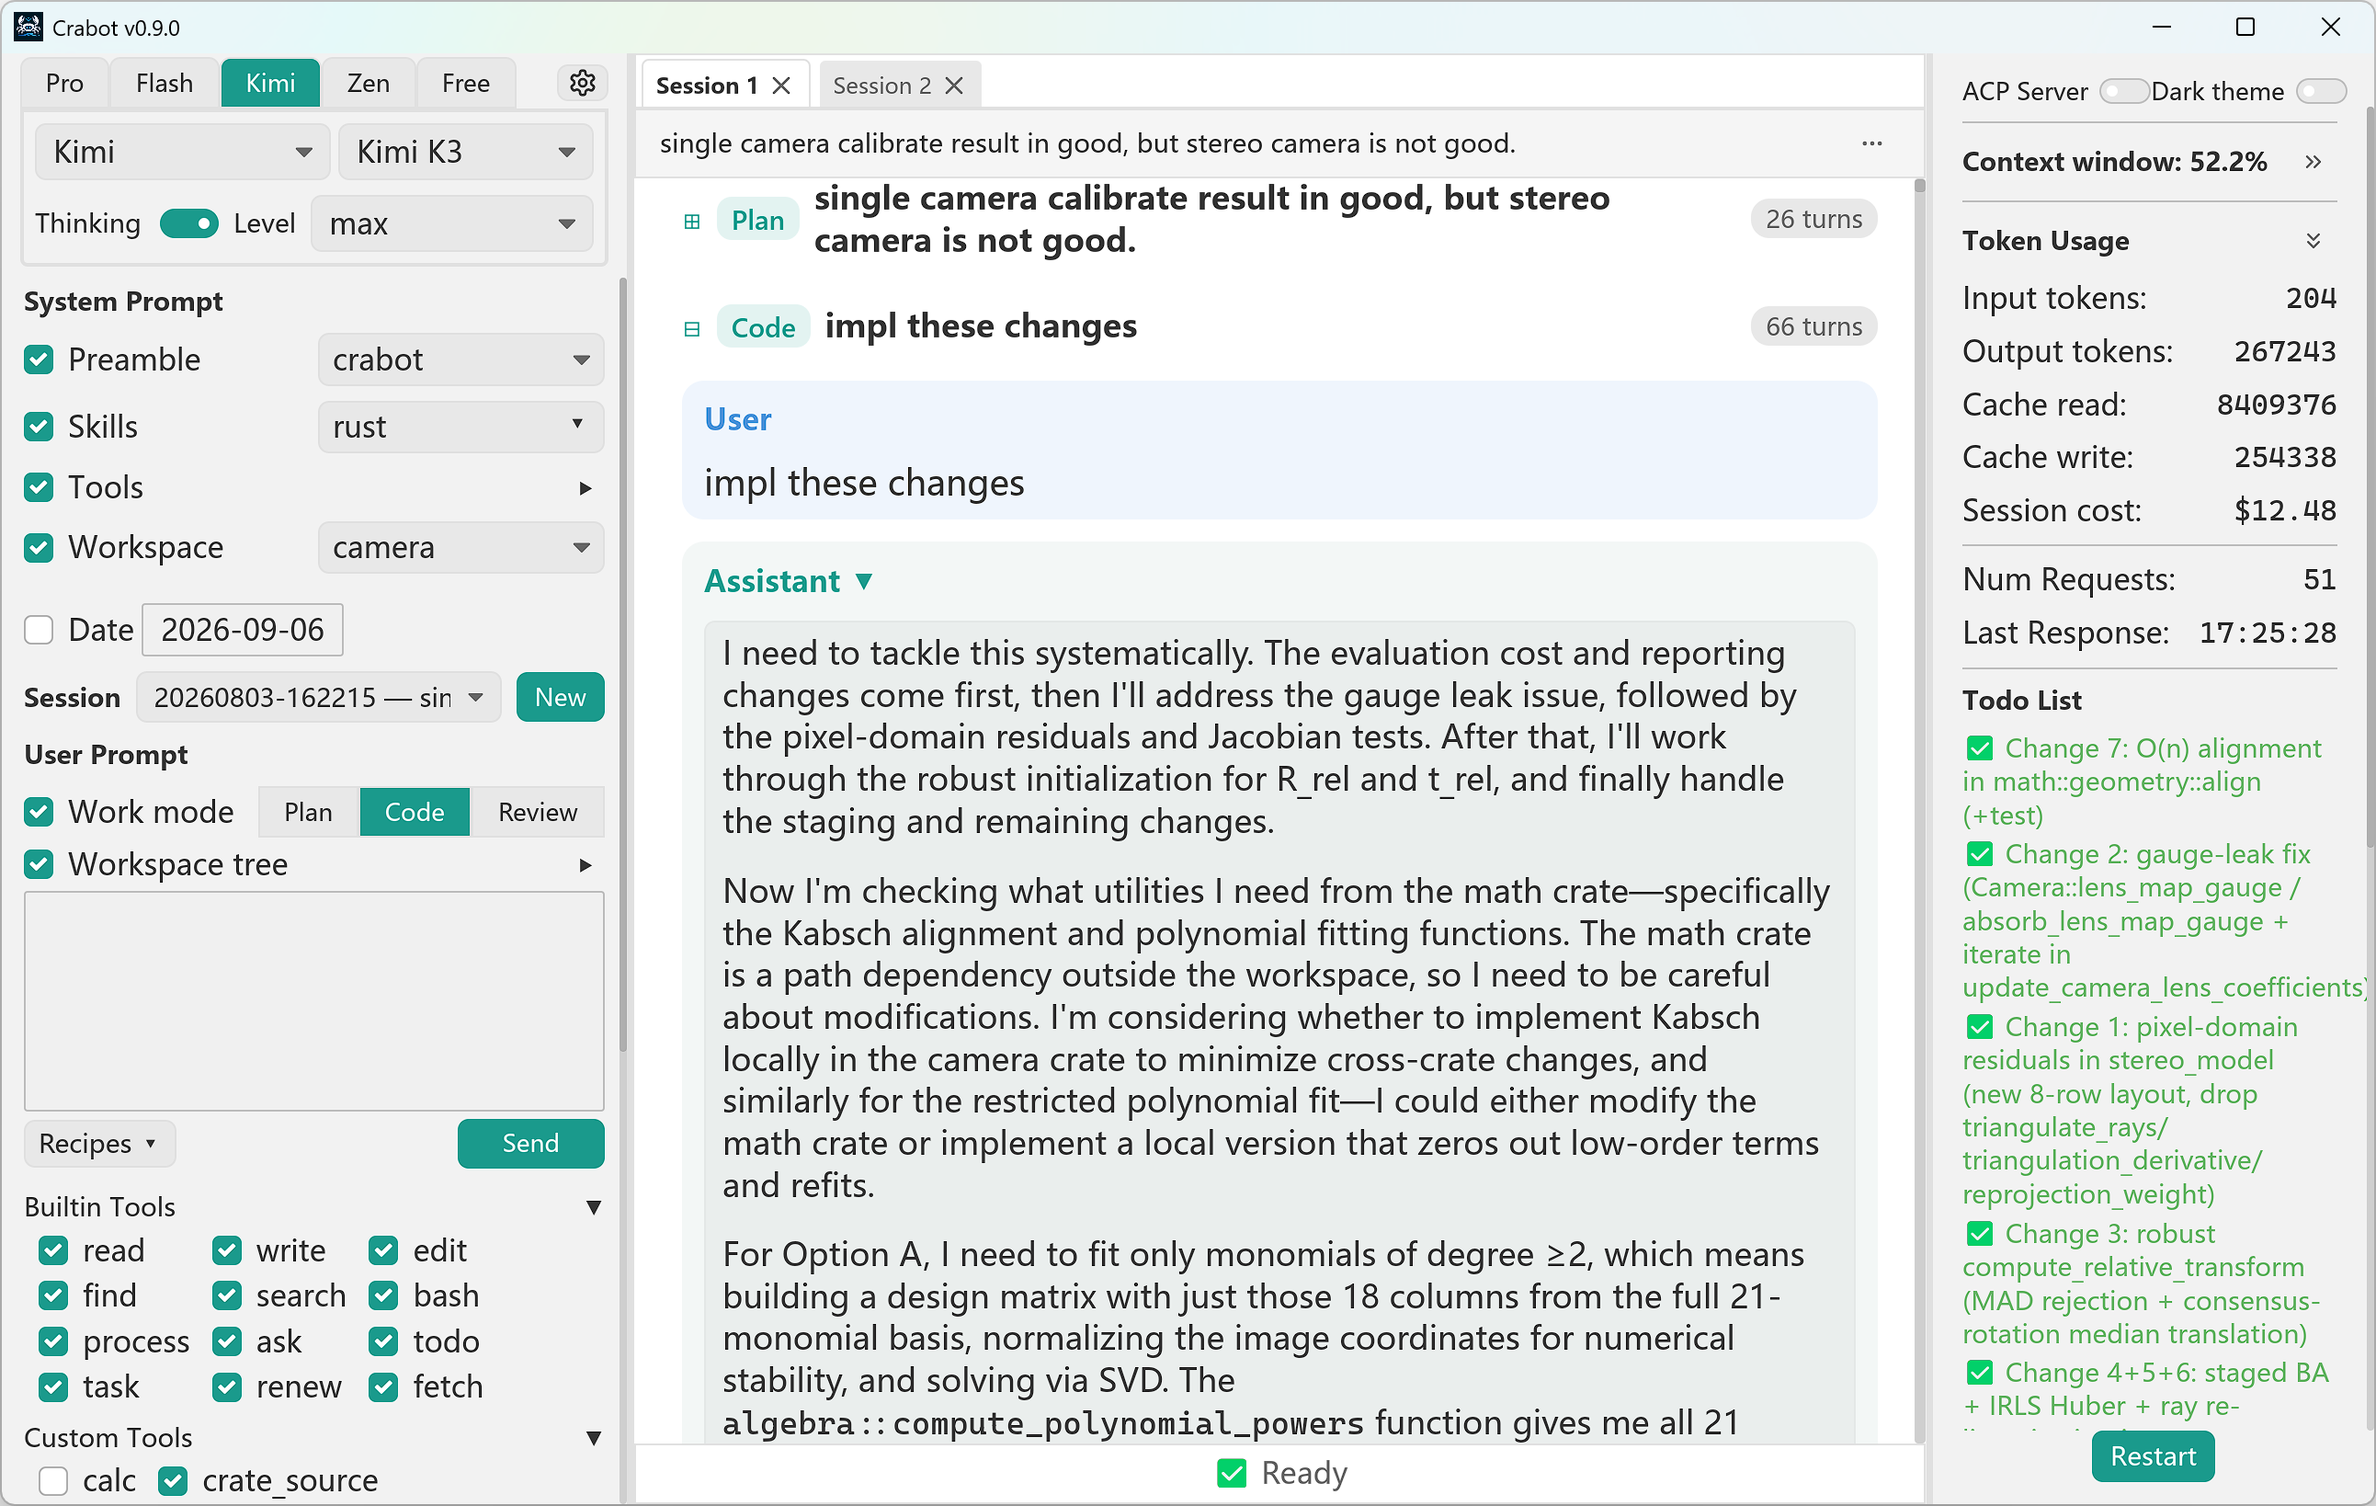
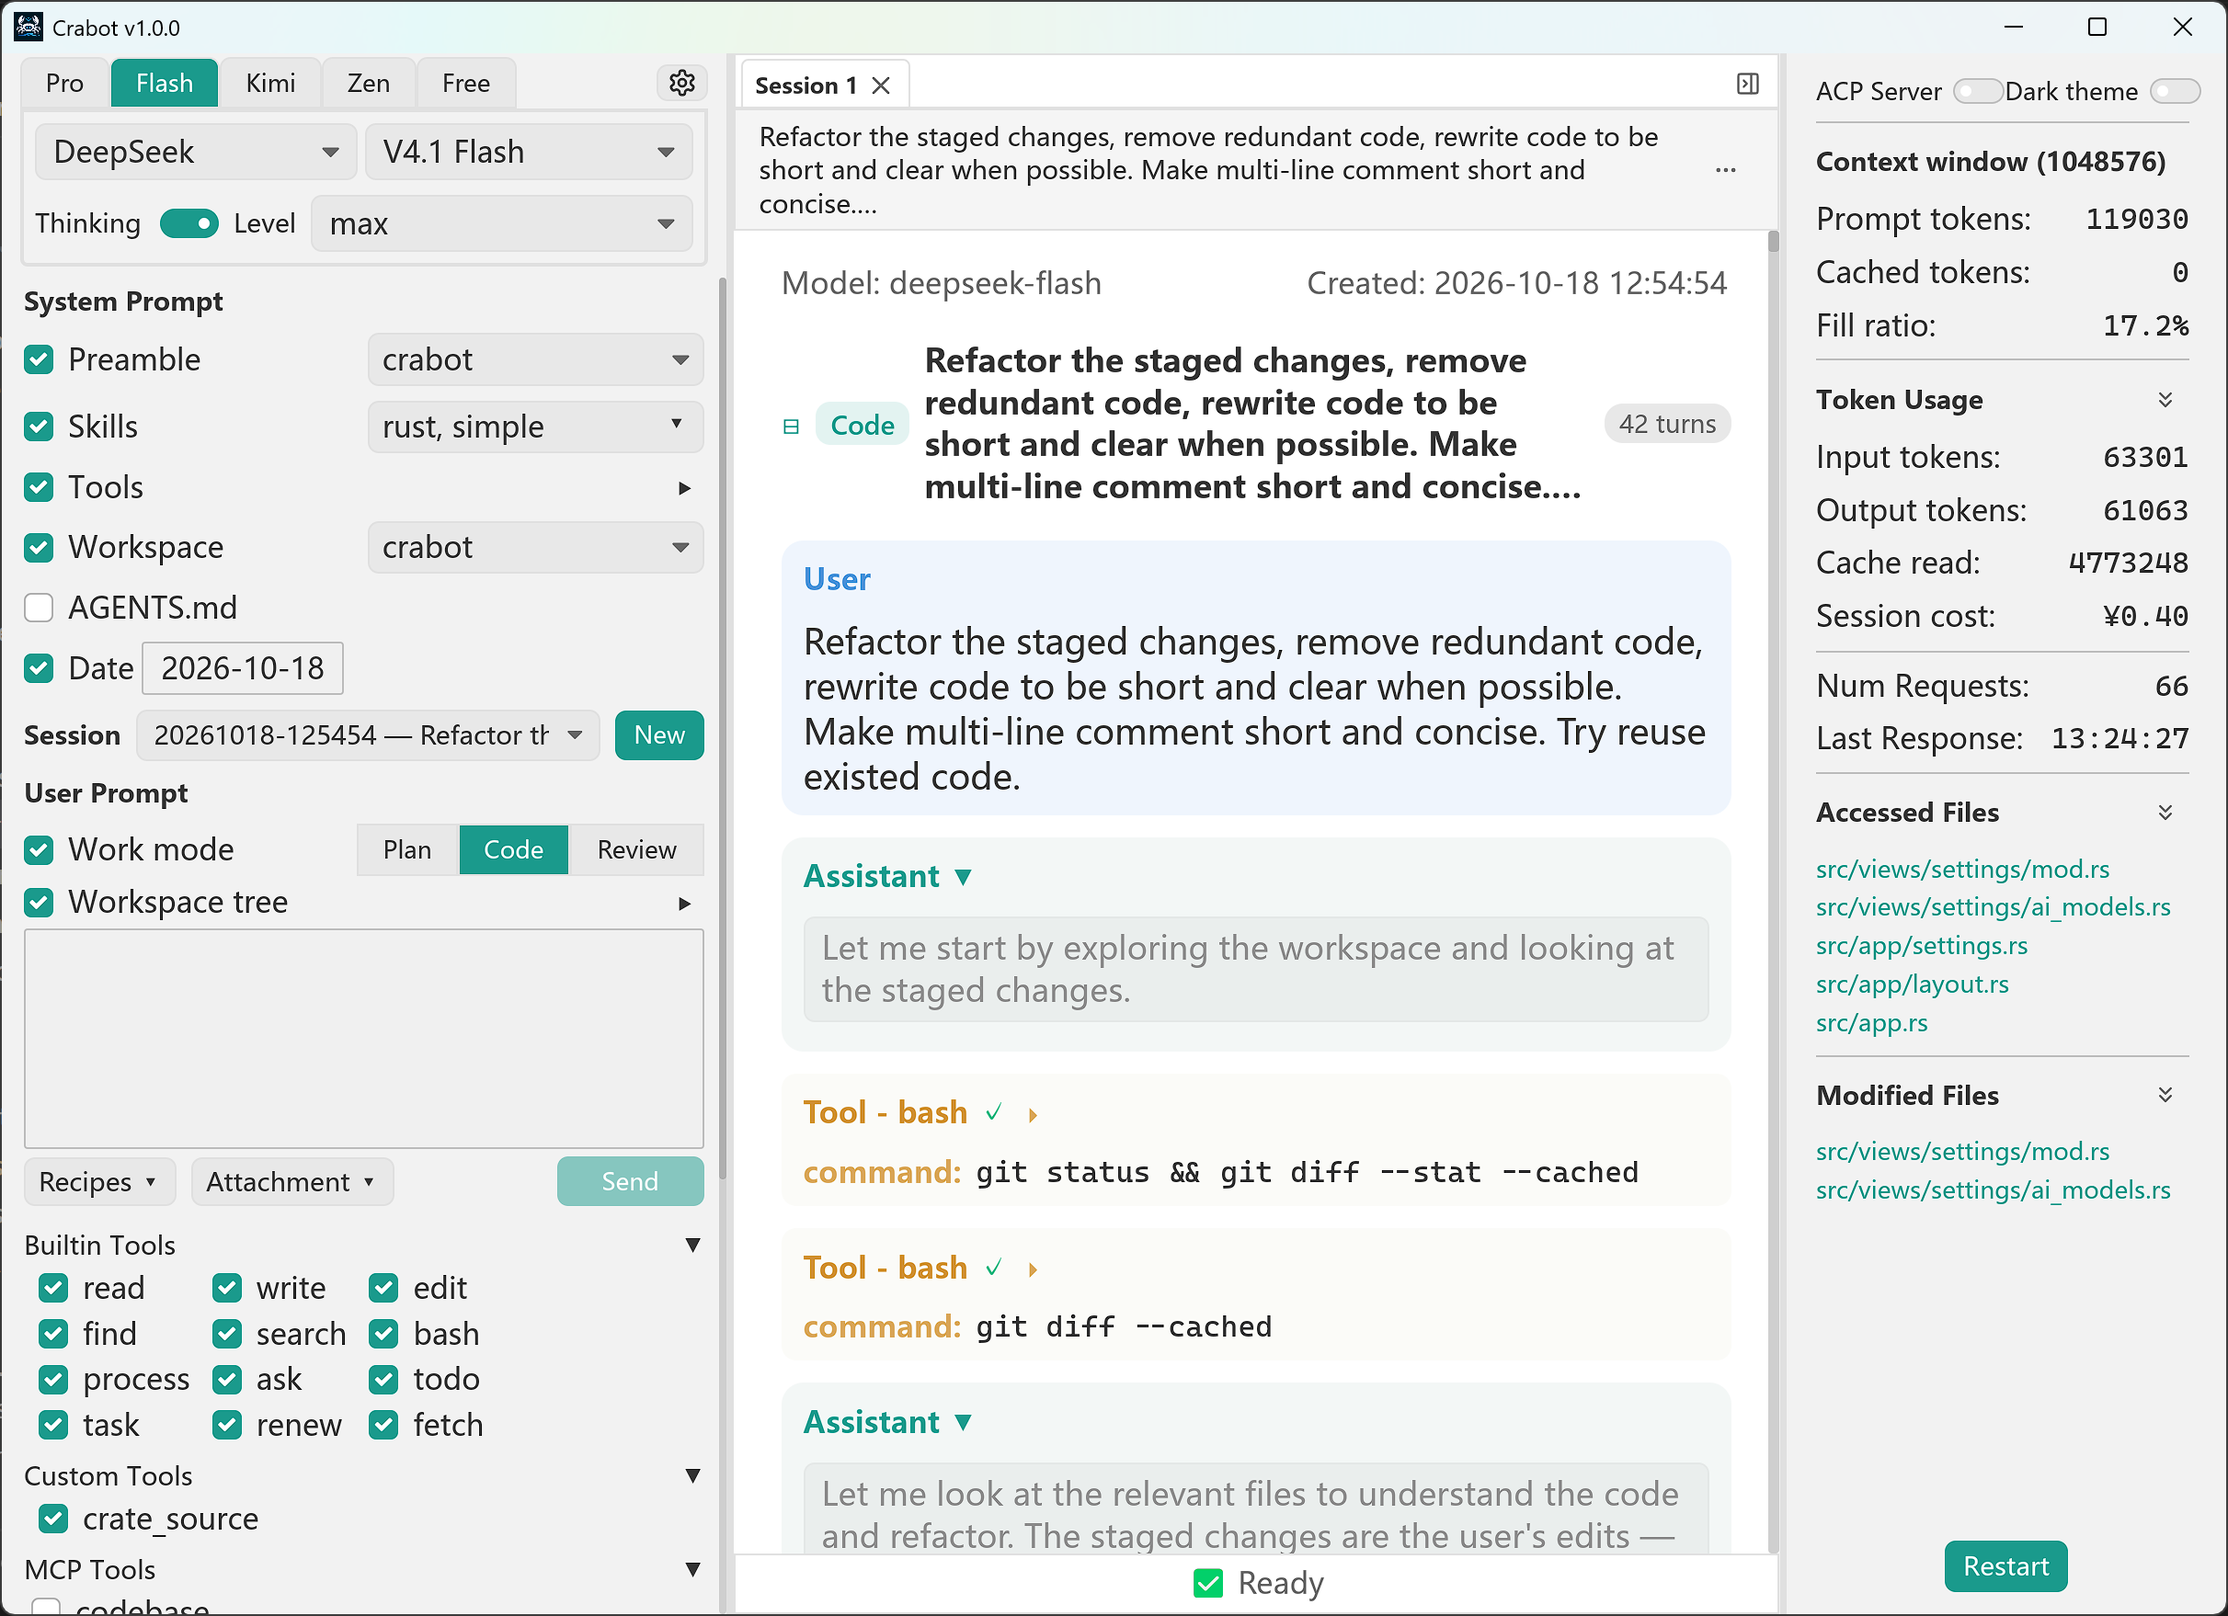
Update document

diff --git a/AGENTS.md b/AGENTS.md
@@ -2,7 +2,7 @@
 
 ## Project Overview
 
-Crabot is a pure-Rust native GUI coding agent built with [iced](https://iced.rs) (Elm architecture) and [genai](https://crates.io/crates/genai) for multi-provider LLM access. It ships with 12 built-in tools — the `bash` tool runs on an in-process [bashkit](https://crates.io/crates/bashkit) interpreter, so it works natively on Windows without a real bash — plus user-defined custom tools, MCP server tools, and multi-tab sessions.
+Crabot is a pure-Rust native GUI coding agent built with [iced](https://iced.rs) (Elm architecture) and [genai](https://crates.io/crates/genai) for multi-provider LLM access. It ships with 12 built-in tools — the `bash` tool runs on an in-process [bashkit](https://crates.io/crates/bashkit) interpreter, so it works natively on Windows without a real bash — plus prompt attachments, user-defined custom tools, MCP server tools, and multi-tab sessions.
 
 Everything configurable is meant to be visible and toggleable in the UI: model, work mode, tools, and the individual components of the system prompt.
 
@@ -10,13 +10,13 @@ Everything configurable is meant to be visible and toggleable in the UI: model, 
 
 ### Three-pane GUI
 
-A single window with a resizable left pane (model config, system-prompt sections, session picker, work mode, prompt editor, tool list), a center pane (session tabs, conversation turns, search bar, status bar), and a right pane (theme toggle, context-window/token stats, todo list, modified files with Revert / Revert All, process list, restart). All panes and the settings dialog live in `src/views/`.
+A single window with a resizable left pane (model config, system-prompt sections, session picker, work mode, prompt editor, tool list), a center pane (session tabs, conversation turns, search bar, status bar), and a right pane (collapsible from the tab bar; theme toggle, context-window/token stats, todo list, modified files with Revert / Revert All, process list, restart). All panes and the settings dialog live in `src/views/`.
 
 ### Data flow
 
 - **UI → state:** `App::update` (`src/app.rs`) dispatches domain messages to handlers in `src/app/` (`layout`, `conversation`, `prompt`, `tool_state`, `settings`, `overlay`, `session_state`, `snapshot`).
 - **Agent loop:** `llm::send_stream` sends a request with system prompt + tool declarations + history, streams reply chunks, executes tool calls, appends results, and repeats until the model stops calling tools. It handles cancellation, retries transient failures, and detects stalled streams. Independent tool calls run in parallel batches; interactive or file-mutating tools act as serial barriers.
-- **Persistence:** RON config in `~/.crabot/` (settings, models, tools, mcp); sessions as JSONL under `.agent/sessions/YYYY-MM/`, appended one message at a time so a crash mid-turn loses nothing.
+- **Persistence:** RON config in `~/.crabot/` (settings, models, tools, mcp); sessions as JSONL under `.agent/sessions/YYYY-MM/`, appended one message at a time so a crash mid-turn loses nothing; prompt attachments are recorded as path markers and materialized when a request is built.
 - **Snapshots:** `write`/`edit` targets are pre-imaged before tool execution into `.agent/snapshots/`, backing the right-pane Revert actions.
 - **Assets:** bundled with `include_dir!` and seeded to `~/.crabot/` on first boot.
 - **Extras:** MCP servers connect over stdio/HTTP via `rmcp`; an optional ACP bridge exposes sessions to external editors.
@@ -29,14 +29,15 @@ A single window with a resizable left pane (model config, system-prompt sections
 | `src/app/`                                            | Domain handlers split by concern (see data flow)                         |
 | `src/views/`                                          | UI panes, custom styling, settings dialog tabs, HTML export, self-update |
 | `src/widgets/`                                        | Custom widgets: `TextArea` (undo/redo), `DropDown`, `PopupMenu`          |
-| `src/llm/`                                            | Streaming agent loop, retry/stall handling, parallel tool-call execution |
+| `src/llm/`                                            | Streaming agent loop, retry/stall handling, parallel tool-call execution, attachment/image materialization |
 | `src/tools/`                                          | Tool trait, registry, built-ins, custom/MCP tools, process plumbing      |
 | `src/chat.rs`, `src/session.rs`                       | Conversation UI types; raw history, JSONL persistence, todos             |
-| `src/model.rs`, `src/model_database.rs`               | Model/provider/task-model types; embedded model database                 |
+| `src/model.rs`, `src/model_database.rs`               | Model/provider/task-model types; embedded model database generated from models.dev/models-cn |
 | `src/settings.rs`, `src/setup.rs`, `src/workspace.rs` | Persisted settings; first-boot seeding and logging; workspace scanning   |
-| `src/user.rs`, `src/i18n.rs`, `src/fonts.rs`          | Work modes and user prompt; translations; CJK font handling              |
+| `src/user.rs`, `src/i18n.rs`, `src/fonts.rs`          | Work modes, user prompt, and attachments; translations; CJK font handling |
 | `src/acp.rs`                                          | ACP bridge for external editor clients                                   |
 | `assets/`                                             | Bundled preambles, skills, default config, images                        |
+| `examples/`                                           | `update_models` regenerates the model database; session stats and JSONL conversion |
 | `tests/`                                              | Integration tests (`bash`, `process`, `tools`, `session`, `chat`, …)     |
 
 ## Tool System
@@ -59,7 +60,8 @@ Built-ins: `read`, `write`, `edit` (file I/O with pagination, truncation, and ov
 - **State & UI:** one root `App` with grouped state (models, settings, layout, prompt, tools, conversation, settings dialog, overlay) and a hierarchical message enum; each session tab owns its own streaming/search/scroll/model state.
 - **Streaming UX:** placeholders are pushed when a turn starts and updated in place; `bash` and `process` forward live output, coalesced and capped before rendering.
 - **Tool output normalization:** grep-style runs that repeat a file path (`path:12:text`, `path-12-text` for context) collapse into a `path:` heading plus the original `line…` tails (`src/tools/normalize.rs`), applied once in `build_tool_result` so the model, the UI, the session file, and the HTML export all carry the same text; the live stream stays raw.
-- **Images:** history stores only path markers; the request builder encodes the bytes (`src/llm/image.rs`) under a per-request allowance, spending it on the newest pictures and degrading the rest to a text notice.
+- **Images & attachments:** history stores only path markers. When a request is built, `src/llm/attachment.rs` reads text attachments (bounded by the `read` limit and truncated with a marker) and `src/llm/image.rs` encodes images under a per-request allowance, spending it on the newest pictures and degrading the rest to a text notice; chat previews are decoded lazily in `src/app/conversation.rs`.
+- **Model database:** `assets/models.json` is generated from models.dev/models-cn by `cargo run --example update_models`; don't hand-edit it.
 - **Style:** short, purposeful comments; keep functions small and names meaningful; run `cargo fmt` and `cargo clippy` before wrapping up.
 
 ## Repository

diff --git a/README.md b/README.md
@@ -10,7 +10,7 @@
 
 A pure-Rust native GUI coding agent using [iced](https://iced.rs) and [genai](https://crates.io/crates/genai) for multi-provider LLM.
 
-Most coding agents today run inside a terminal as TUIs. Crabot is built on the belief that a carefully designed GUI is easier and more efficient to operate: switch the AI model, toggle the work mode, and turn tools on/off with one click, with dropdown menus for preamble, skills, workspaces, AGENTS.md, session list, and prompt recipes.
+Most coding agents today run inside a terminal as TUIs. Crabot is built on the belief that a carefully designed GUI is easier and more efficient to operate: switch the AI model, toggle the work mode, turn tools on/off, and show/hide the right pane with one click, with dropdown menus for preamble, skills, workspaces, AGENTS.md, session list, and prompt recipes.
 
 <img src="doc/images/screenshot.webp" alt="screen shot" width="800">
 <img src="doc/images/screenshot-zh.webp" alt="screen shot" width="800">
@@ -19,6 +19,7 @@ Most coding agents today run inside a terminal as TUIs. Crabot is built on the b
 
 - [x] No TUI — just a GUI, easy for everyone to use.
 - [x] Multi-tab sessions view — switch between concurrent sessions, or let the agent delegate subtasks to new tabs.
+- [x] Prompt attachments — attach text and image files to a prompt, with clickable inline previews in the conversation.
 - [x] Configure through dialogs — a settings dialog with 8 tab pages (User Interface, AI Models, Prompt Recipes, Builtin Tools, Custom Tools, MCP Servers, Tool Playground, About), no need to write config files by hand.
 - [x] An explicit context window, with every detail customizable.
 - [x] Native, high-performance built-in tools.
@@ -51,6 +52,10 @@ If you know the structure of the LLM context window, you will appreciate the UI 
 Beyond the built-ins, you can add your own **custom CLI tools** and connect **MCP servers** (Stdio or HTTP) to expose their tools — everything is managed in-app and toggleable per session.
 
 Grep-style tool output is normalized before it enters the conversation: a run of lines that share a file path (`path:12:text`, plus `path-12-text` context lines from `-A/-B/-C`) collapses into a `path:` heading followed by the original line numbers and text, so no repetition is paid for twice. What you read in the UI, in the session file, and in the HTML export is exactly what was sent to the model; the live stream stays raw.
+
+## Prompt Attachments
+
+The prompt editor's **Attachment ▾** menu adds text or image files to the next prompt (up to 20 files). Text files are inserted into the request up to the `read` limit and truncated with a marker; images go through the same downscaling and re-encoding pipeline as the `read` tool, and the selected model must accept image input. The chat lists every attachment with a clickable preview, while history keeps only the file path, so attachments are read again when a session is reloaded.
 
 ## Context Window & Sessions
 

diff --git a/CHANGELOG.md b/CHANGELOG.md
@@ -1,3 +1,17 @@
+# Crabot v1.0.0
+
+- **Prompt attachments** — attach text and image files to a prompt; text is inserted into the request, images are sent as image parts, and the chat shows every attachment with a clickable inline preview.
+- **Images in `read`** — the `read` tool now returns PNG/JPEG/GIF/WebP/BMP files as pictures for the model instead of dumping bytes, and oversized images are downscaled and re-encoded to fit per-model and per-request limits.
+- **Quieter tool output** — grep-style results collapse consecutive matches from one file under a single path heading, and tabs in tool output, edit diffs, and prompts render as blanks instead of box glyphs.
+- **Smarter `crate_source`** — resolves crates.io, git, and path dependencies, supports `name@version`, and falls back to a cache-wide search.
+- **Real host `uname`** — the `bash` tool runs the host's own `uname` (including Git Bash's on Windows), so the platform matches the machine instead of bashkit's virtual Linux sandbox.
+- **Retry SSE-level failures** — transient provider errors delivered inside a 200-status event stream are now retried like other transient failures.
+- **UI polish** — a tab-bar button toggles the right pane; Send is disabled while the prompt is blank; work modes are translated in Chinese; unchecked models stay visible in the provider list, and the model detail form no longer resizes.
+- **Refreshed model database** — embedded model data and pricing updated from models.dev/models-cn, with `examples/update_models.rs` to regenerate it.
+- **Faster builds** — reqwest now uses rustls' ring provider without aws-lc-rs, iced drops unused image codecs, and zip builds only the deflate backend.
+
+**Full Changelog**: [`v0.9.2...v1.0.0`](https://github.com/J-F-Liu/crabot/compare/v0.9.2...v1.0.0)
+
 # Crabot v0.9.2
 
 - **Host commands resolve like a shell** — bridged `bash` commands, `process`, and custom tools search `PATH`+`PATHEXT` before spawning, so Windows launchers (`npx.cmd`, `npm.cmd`) start instead of failing with "program not found"; a name that resolves nowhere reports bash's `command not found` (exit 127).
